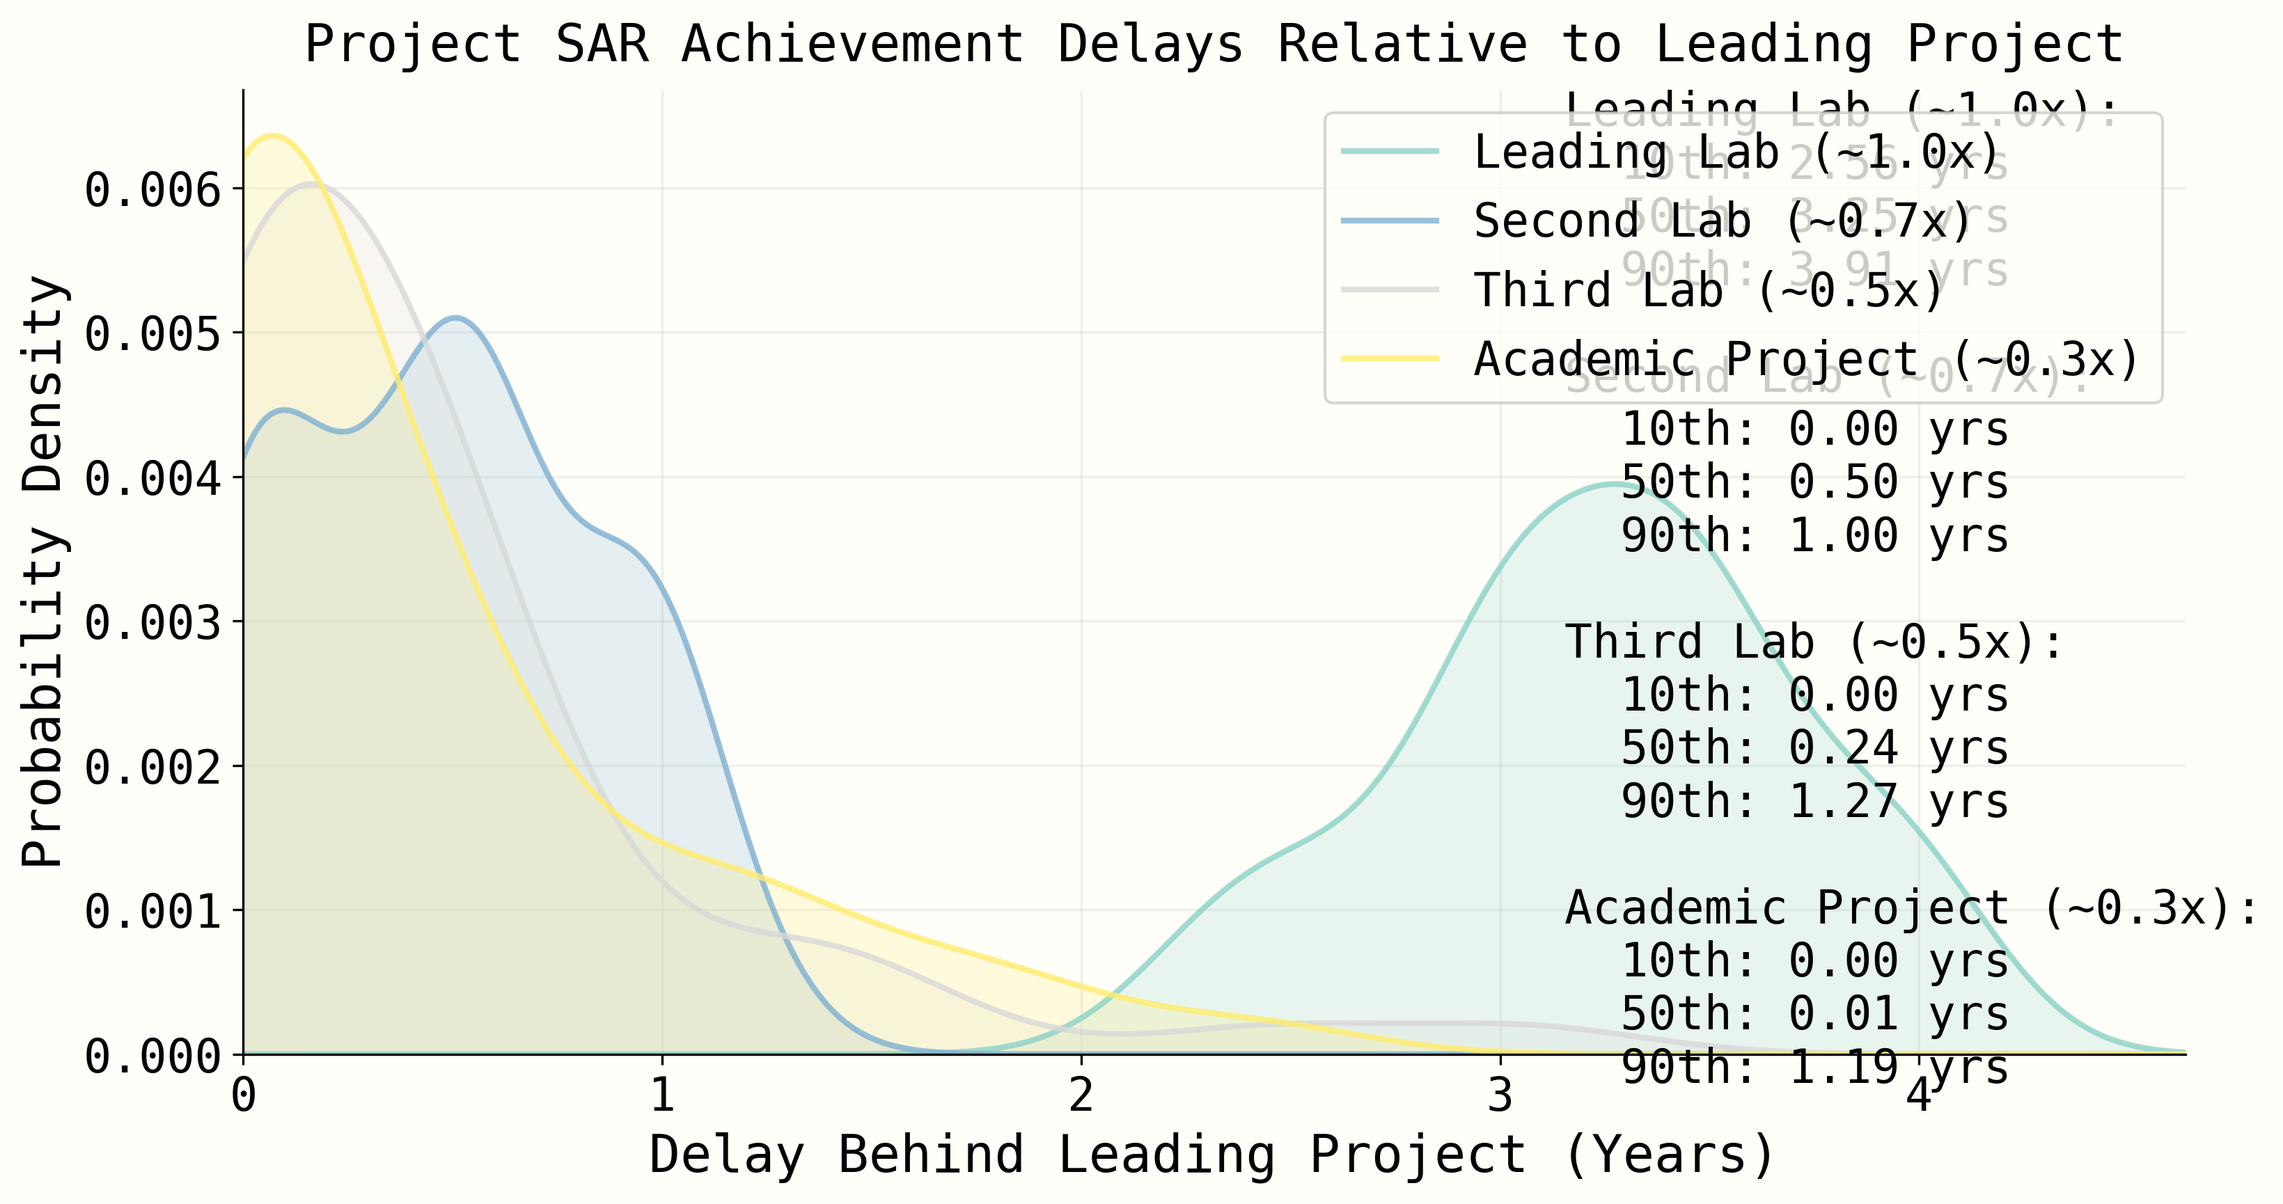
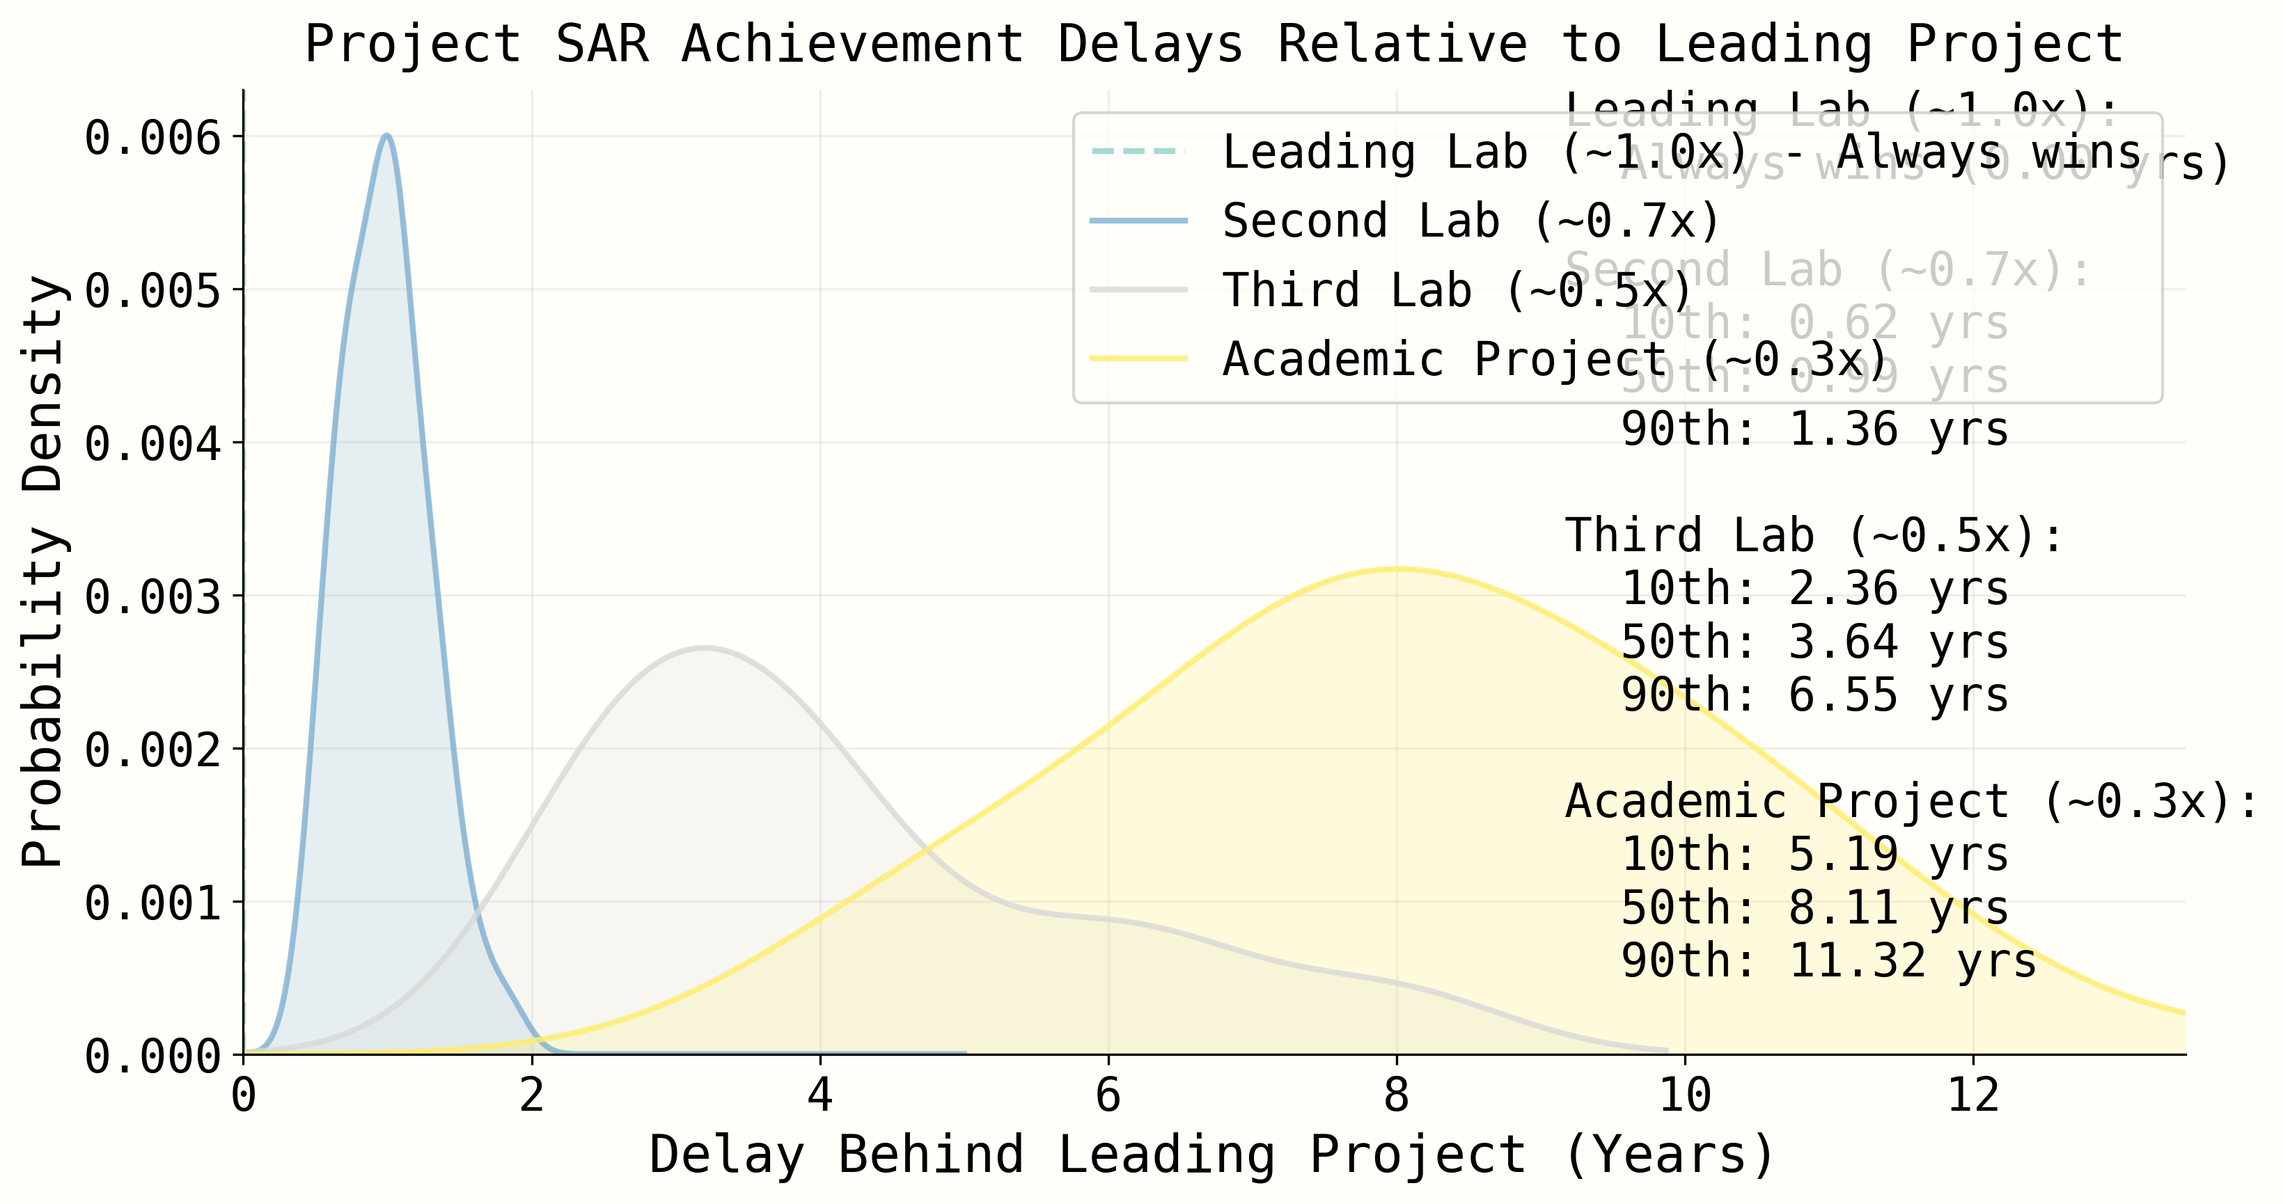
fix bugs

diff --git a/takeoff/forecasting_takeoff.py b/takeoff/forecasting_takeoff.py
@@ -434,8 +434,12 @@ def create_milestone_timeline_plot(all_milestone_dates: list[list[datetime]], co
         x_range = np.linspace(start_year, MAX_GRAPH_YEAR, 200000)
         density = kde(x_range)
         
-        # Normalize density to sum to 1 over visible range
-        density = density / np.sum(density) * (len(visible_data) / len(milestone_data))
+        # Normalize density to sum to 1 over visible range - fix division by zero
+        density_sum = np.sum(density)
+        if density_sum > 0:
+            density = density / density_sum * (len(visible_data) / len(milestone_data))
+        else:
+            density = np.zeros_like(density)  # Fallback if density is all zeros
         
         # Plot with different colors for each milestone
         colors = ["#900000", "#004000", "#000090"]
@@ -520,20 +524,33 @@ def create_phase_duration_plot(all_milestone_dates: list[list[datetime]], config
     start_date = datetime.strptime(config["starting_time"], "%B %d %Y")
     
     for sim_dates in all_milestone_dates:
-        # Include start date
-        dates = [start_date] + sim_dates
+        # sim_dates should contain [SC_date, SAR_date, SIAR_date, ASI_date]
+        # We want to calculate durations for: SC to SAR, SAR to SIAR, SIAR to ASI
         durations = []
         
-        # Calculate durations in years
-        for i in range(len(dates) - 1):
-            delta = dates[i+1] - dates[i]
-            years = delta.days / 365.0
-            durations.append(years)
+        # Calculate durations in years between consecutive milestones
+        for i in range(len(sim_dates) - 1):
+            if i + 1 < len(sim_dates):  # Ensure we don't go out of bounds
+                delta = sim_dates[i+1] - sim_dates[i]
+                years = delta.days / 365.0
+                durations.append(years)
         
-        phase_durations.append(durations)
+        # Ensure we have exactly 3 durations (SC to SAR, SAR to SIAR, SIAR to ASI)
+        # Pad with NaN if we have fewer milestones due to capping
+        while len(durations) < 3:
+            durations.append(float('nan'))
+        
+        # Take only the first 3 durations to match our phase names
+        phase_durations.append(durations[:3])
     
     # Transpose to get list of durations for each phase
     phase_durations = list(map(list, zip(*phase_durations)))
+    
+    # Filter out NaN values for each phase
+    filtered_phase_durations = []
+    for phase in phase_durations:
+        filtered_phase = [d for d in phase if not np.isnan(d)]
+        filtered_phase_durations.append(filtered_phase)
     
     # Set up figure with space for statistics on the right
     fig = plt.figure(figsize=(12, 6), facecolor=bg_rgb)
@@ -555,8 +572,8 @@ def create_phase_duration_plot(all_milestone_dates: list[list[datetime]], config
     # Create box plot with log scale
     ax_box.set_yscale('log')
     
-    # Create box plot with custom whiskers at 90th percentile
-    bp = ax_box.boxplot(phase_durations, labels=phase_names, patch_artist=True, 
+    # Create box plot with custom whiskers at 90th percentile - fix the deprecation warning
+    bp = ax_box.boxplot(filtered_phase_durations, tick_labels=phase_names, patch_artist=True, 
                         whis=(10, 90))  # Set whiskers at 10th and 90th percentiles
     
     # Add color to boxes
@@ -582,20 +599,24 @@ def create_phase_duration_plot(all_milestone_dates: list[list[datetime]], config
     # Create statistics table in the right subplot
     ax_stats.axis('off')  # Hide axes for the stats panel
     
-    # Prepare statistics text using full data
+    # Prepare statistics text using filtered data
     stats_text = "Statistics (years):\n\n"
-    for i, data in enumerate(zip(phase_durations)):
-        p10 = np.percentile(data, 10)
-        p50 = np.percentile(data, 50)  # median
-        p90 = np.percentile(data, 90)
-        
-        stats_text += f"{phase_full[i]} to \n {phase_full[i+1]}\n"
-        stats_text += f"  10th: {p10:.2f}\n"
-        stats_text += f"  50th: {p50:.2f}\n"
-        if (p90 > 100): 
-            stats_text += f"  90th: >100\n\n"
-        else: 
-            stats_text += f"  90th: {p90:.2f}\n\n"
+    for i, data in enumerate(filtered_phase_durations):
+        if len(data) > 0:
+            p10 = np.percentile(data, 10)
+            p50 = np.percentile(data, 50)  # median
+            p90 = np.percentile(data, 90)
+            
+            stats_text += f"{phase_full[i]} to \n {phase_full[i+1]}\n"
+            stats_text += f"  10th: {p10:.2f}\n"
+            stats_text += f"  50th: {p50:.2f}\n"
+            if (p90 > 100): 
+                stats_text += f"  90th: >100\n\n"
+            else: 
+                stats_text += f"  90th: {p90:.2f}\n\n"
+        else:
+            stats_text += f"{phase_full[i]} to \n {phase_full[i+1]}\n"
+            stats_text += f"  No valid data\n\n"
     
     # Add statistics text to the right panel
     ax_stats.text(0.06, 0.95, stats_text, 
@@ -738,8 +759,12 @@ def create_multi_project_timeline_plot(all_first_milestone_dates: list[list[date
                     x_range = np.linspace(start_year, MAX_GRAPH_YEAR, 1000)
                     density = kde(x_range)
                     
-                    # Normalize density
-                    density = density / np.sum(density) * (len(visible_data) / len(project_sar_times))
+                    # Normalize density - fix division by zero
+                    density_sum = np.sum(density)
+                    if density_sum > 0:
+                        density = density / density_sum * (len(visible_data) / len(project_sar_times))
+                    else:
+                        density = np.zeros_like(density)  # Fallback if density is all zeros
                     
                     # Plot distribution
                     project_params = config["projects"][project_name]
@@ -922,6 +947,8 @@ def create_project_delay_plot(all_project_results: list[dict], config: dict, plo
     
     # Plot delay distributions for each project
     stats_text = ""
+    has_plotted_data = False
+    
     for proj_idx, project_name in enumerate(projects_for_delay):
         delays = project_delays[project_name]
         
@@ -931,101 +958,104 @@ def create_project_delay_plot(all_project_results: list[dict], config: dict, plo
             p50 = np.percentile(delays, 50)
             p90 = np.percentile(delays, 90)
             
-            # Determine appropriate x-axis range based on the data
-            max_delay_in_data = max(delays)
-            # For small delays, ensure minimum visible range of 2 years
-            MAX_DELAY = max(2.0, min(max(5, max_delay_in_data * 1.2), 20))  # Ensure at least 2 years range
+            # Check if this project has meaningful delay variation
+            delay_variation = p90 - p10
             
-            # Filter data to reasonable range for visualization (include all data since delays are small)
-            visible_data = delays  # Don't filter small delays out
+            # Get project parameters for labeling
+            project_params = config["projects"][project_name]
+            if isinstance(project_params, dict) and "lower_bound" in project_params:
+                # New format - show median of range
+                median_rate = (project_params["lower_bound"] + project_params["upper_bound"]) / 2
+                rate_label = f"~{median_rate:.1f}x"
+            else:
+                # Old format - show fixed rate
+                progress_rate = project_params if isinstance(project_params, (int, float)) else 1.0
+                rate_label = f"{progress_rate:.1f}x"
             
-            if visible_data and len(visible_data) > 1:
-                # Calculate KDE on visible data using same approach as multi-project plot
-                try:
-                    # Special case: if most delays are 0, add small jitter for visualization
-                    if len([d for d in visible_data if d == 0]) > len(visible_data) * 0.5:
-                        # Add tiny random jitter to zero values for visualization
-                        jittered_data = []
-                        for d in visible_data:
-                            if d == 0:
-                                jittered_data.append(d + np.random.normal(0, 0.01))  # Small jitter
-                            else:
-                                jittered_data.append(d)
-                        kde = gaussian_kde(jittered_data)
-                    else:
-                        kde = gaussian_kde(visible_data)
-                    
-                    # Create x range for plotting (same resolution as multi-project plot)
-                    x_range = np.linspace(0, MAX_DELAY, 1000)
-                    density = kde(x_range)
-                    
-                    # Normalize density (same approach as multi-project plot)
-                    density = density / np.sum(density) * (len(visible_data) / len(delays))
-                    
-                    # Plot distribution
-                    project_params = config["projects"][project_name]
-                    if isinstance(project_params, dict) and "lower_bound" in project_params:
-                        # New format - show median of range
-                        median_rate = (project_params["lower_bound"] + project_params["upper_bound"]) / 2
-                        rate_label = f"~{median_rate:.1f}x"
-                    else:
-                        # Old format - show fixed rate
-                        progress_rate = project_params if isinstance(project_params, (int, float)) else 1.0
-                        rate_label = f"{progress_rate:.1f}x"
-                    
-                    ax.plot(x_range, density, '-', color=project_colors[proj_idx], 
-                           label=f"{project_name} ({rate_label})", linewidth=2, alpha=0.8)
-                    ax.fill_between(x_range, density, color=project_colors[proj_idx], alpha=0.2)
-                    
-                except (np.linalg.LinAlgError, ValueError):
-                    # KDE failed, use histogram instead
-                    project_params = config["projects"][project_name]
-                    if isinstance(project_params, dict) and "lower_bound" in project_params:
-                        # New format - show median of range
-                        median_rate = (project_params["lower_bound"] + project_params["upper_bound"]) / 2
-                        rate_label = f"~{median_rate:.1f}x"
-                    else:
-                        # Old format - show fixed rate
-                        progress_rate = project_params if isinstance(project_params, (int, float)) else 1.0
-                        rate_label = f"{progress_rate:.1f}x"
-                    
-                    # Create histogram
-                    bins = np.linspace(0, MAX_DELAY, 50)
-                    hist, bin_edges = np.histogram(visible_data, bins=bins, density=True)
-                    bin_centers = (bin_edges[:-1] + bin_edges[1:]) / 2
-                    
-                    # Plot as step function
-                    ax.step(bin_centers, hist, where='mid', color=project_colors[proj_idx], 
-                           label=f"{project_name} ({rate_label})", linewidth=2, alpha=0.8)
-                    ax.fill_between(bin_centers, hist, step='mid', color=project_colors[proj_idx], alpha=0.2)
+            # Special handling for projects that always (or almost always) win (very small delays)
+            if delay_variation < 0.1:  # Less than 0.1 years variation
+                # Add a vertical line at the median delay position instead of a distribution
+                ax.axvline(x=p50, color=project_colors[proj_idx], linestyle='--', linewidth=2, 
+                          alpha=0.8, label=f"{project_name} ({rate_label}) - Always wins")
                 
                 # Add to stats text
-                if p90 > MAX_DELAY:
-                    stats = (
-                        f"{project_name} ({rate_label}):\n"
-                        f"  10th: {p10:.2f} yrs\n"
-                        f"  50th: {p50:.2f} yrs\n"
-                        f"  90th: >{MAX_DELAY:.0f} yrs"
-                    )
+                if p50 < 0.01:
+                    stats = f"{project_name} ({rate_label}):\n  Always wins (0.00 yrs)"
                 else:
-                    stats = (
-                        f"{project_name} ({rate_label}):\n"
-                        f"  10th: {p10:.2f} yrs\n"
-                        f"  50th: {p50:.2f} yrs\n"
-                        f"  90th: {p90:.2f} yrs"
-                    )
+                    stats = f"{project_name} ({rate_label}):\n  Consistent: {p50:.2f} yrs"
+            else:
+                # Plot normal distribution for projects with meaningful delay variation
+                # Determine appropriate x-axis range based on the data
+                max_delay_in_data = max(delays)
+                # For small delays, ensure minimum visible range of 2 years
+                MAX_DELAY = max(2.0, min(max(5, max_delay_in_data * 1.2), 20))  # Ensure at least 2 years range
                 
-                if proj_idx == 0:
-                    stats_text = stats
-                else:
-                    stats_text += f"\n\n{stats}"
+                # Filter data to reasonable range for visualization (include all data since delays are small)
+                visible_data = delays  # Don't filter small delays out
+                
+                if visible_data and len(visible_data) > 1:
+                    # Calculate KDE on visible data using same approach as multi-project plot
+                    try:
+                        # For projects with some variation, use standard KDE
+                        kde = gaussian_kde(visible_data)
+                        
+                        # Create x range for plotting (same resolution as multi-project plot)
+                        x_range = np.linspace(0, MAX_DELAY, 1000)
+                        density = kde(x_range)
+                        
+                        # Normalize density (same approach as multi-project plot) - fix division by zero
+                        density_sum = np.sum(density)
+                        if density_sum > 0:
+                            density = density / density_sum * (len(visible_data) / len(delays))
+                        else:
+                            density = np.zeros_like(density)  # Fallback if density is all zeros
+                        
+                        # Plot distribution
+                        ax.plot(x_range, density, '-', color=project_colors[proj_idx], 
+                               label=f"{project_name} ({rate_label})", linewidth=2, alpha=0.8)
+                        ax.fill_between(x_range, density, color=project_colors[proj_idx], alpha=0.2)
+                        has_plotted_data = True
+                        
+                    except (np.linalg.LinAlgError, ValueError):
+                        # KDE failed, use histogram instead
+                        # Create histogram
+                        bins = np.linspace(min(visible_data), max(visible_data), 20)
+                        hist, bin_edges = np.histogram(visible_data, bins=bins, density=True)
+                        bin_centers = (bin_edges[:-1] + bin_edges[1:]) / 2
+                        
+                        # Plot as step function
+                        ax.step(bin_centers, hist, where='mid', color=project_colors[proj_idx], 
+                               label=f"{project_name} ({rate_label})", linewidth=2, alpha=0.8)
+                        ax.fill_between(bin_centers, hist, step='mid', color=project_colors[proj_idx], alpha=0.2)
+                    
+                    # Add to stats text
+                    if p90 > 20:  # Adjust threshold based on reasonable delays
+                        stats = (
+                            f"{project_name} ({rate_label}):\n"
+                            f"  10th: {p10:.2f} yrs\n"
+                            f"  50th: {p50:.2f} yrs\n"
+                            f"  90th: >20 yrs"
+                        )
+                    else:
+                        stats = (
+                            f"{project_name} ({rate_label}):\n"
+                            f"  10th: {p10:.2f} yrs\n"
+                            f"  50th: {p50:.2f} yrs\n"
+                            f"  90th: {p90:.2f} yrs"
+                        )
+                
+            # Add to stats text
+            if proj_idx == 0:
+                stats_text = stats
+            else:
+                stats_text += f"\n\n{stats}"
     
-    # Determine final x-axis limit based on actual data
-    all_delays = [delay for delays in project_delays.values() for delay in delays]
-    if all_delays:
-        data_max = np.percentile(all_delays, 95)  # Use 95th percentile to avoid outliers
-        # For small delays, ensure minimum visible range of 2 years
-        final_xlim = max(2.0, min(max(3, data_max * 1.3), 15))  # Reasonable range with minimum
+    # Determine final x-axis limit based on actual data, excluding always-zero delays
+    non_zero_delays = [delay for delays in project_delays.values() for delay in delays if delay > 0.01]
+    if non_zero_delays:
+        data_max = np.percentile(non_zero_delays, 95)  # Use 95th percentile to avoid outliers
+        # For small delays, ensure minimum visible range of 2 years, but focus on actual variation
+        final_xlim = max(2.0, min(data_max * 1.3, 15))  # Reasonable range
     else:
         final_xlim = 5
     
